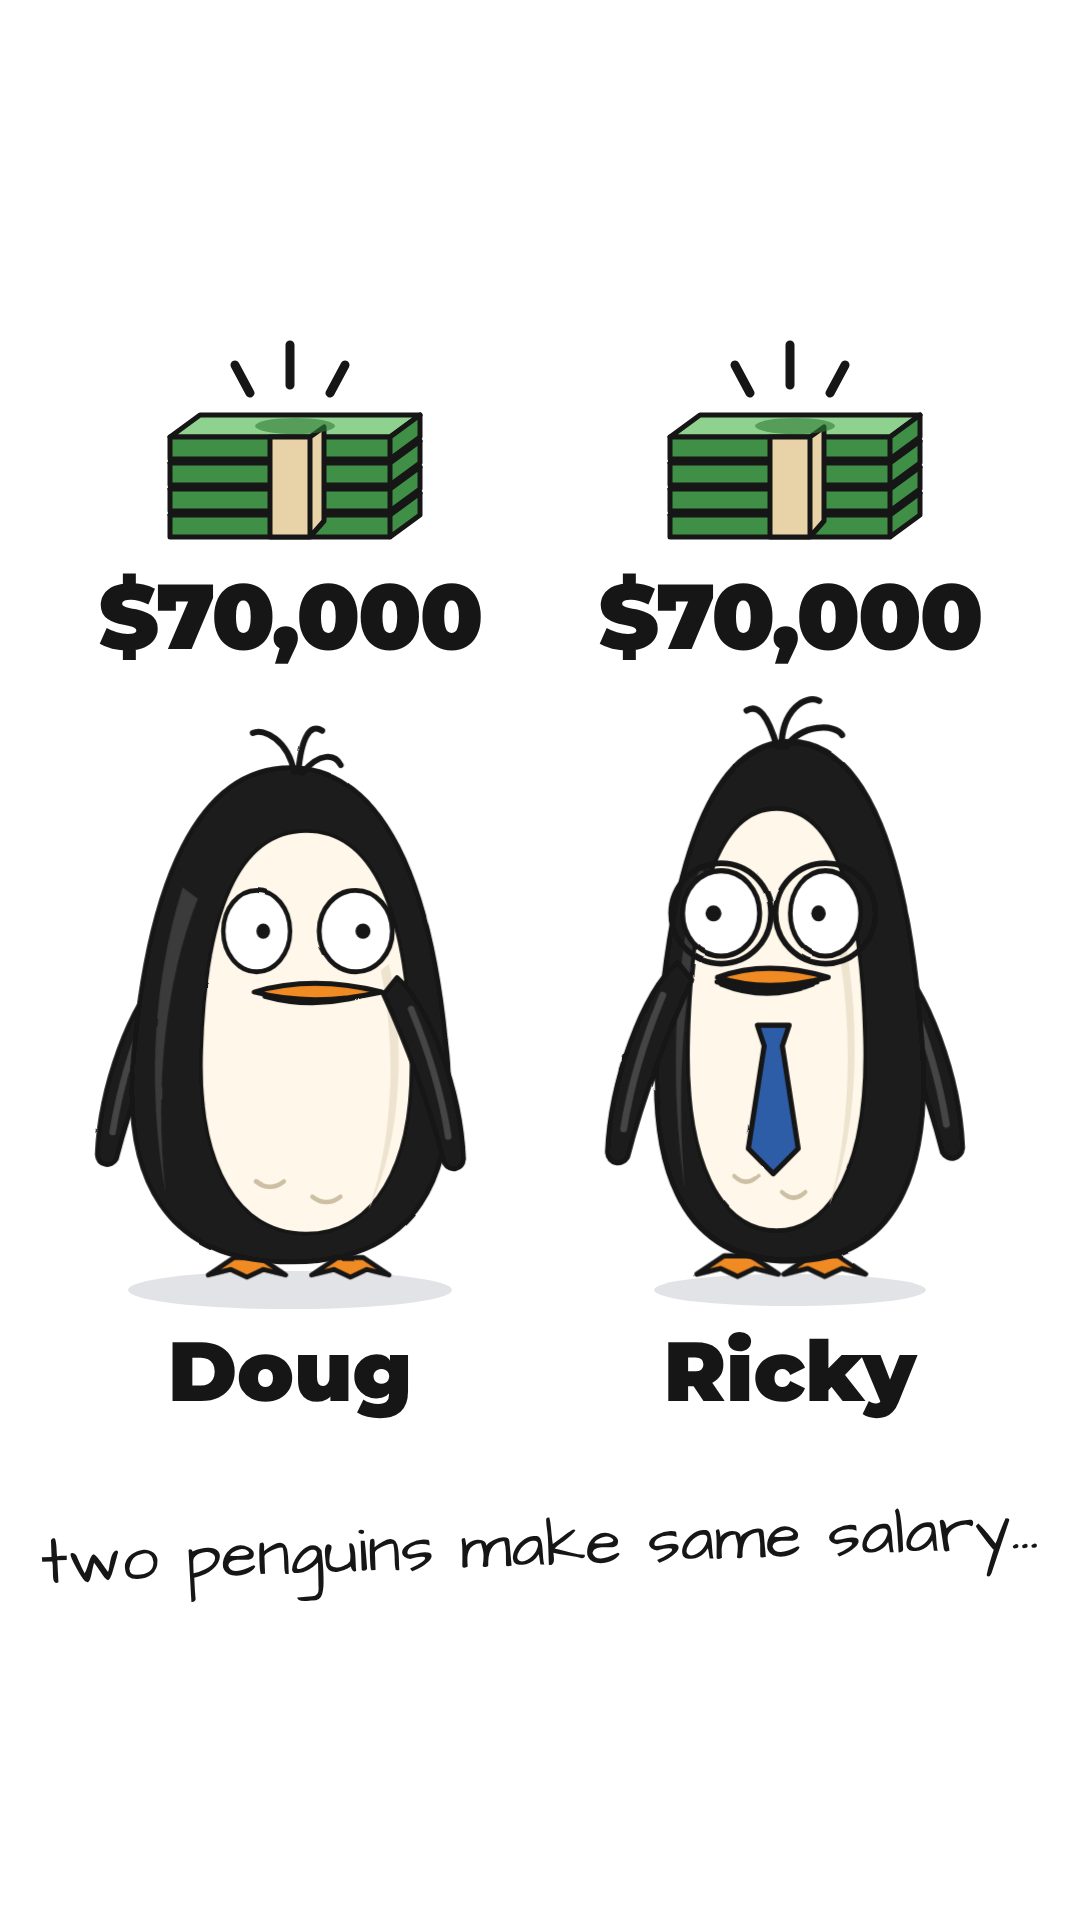
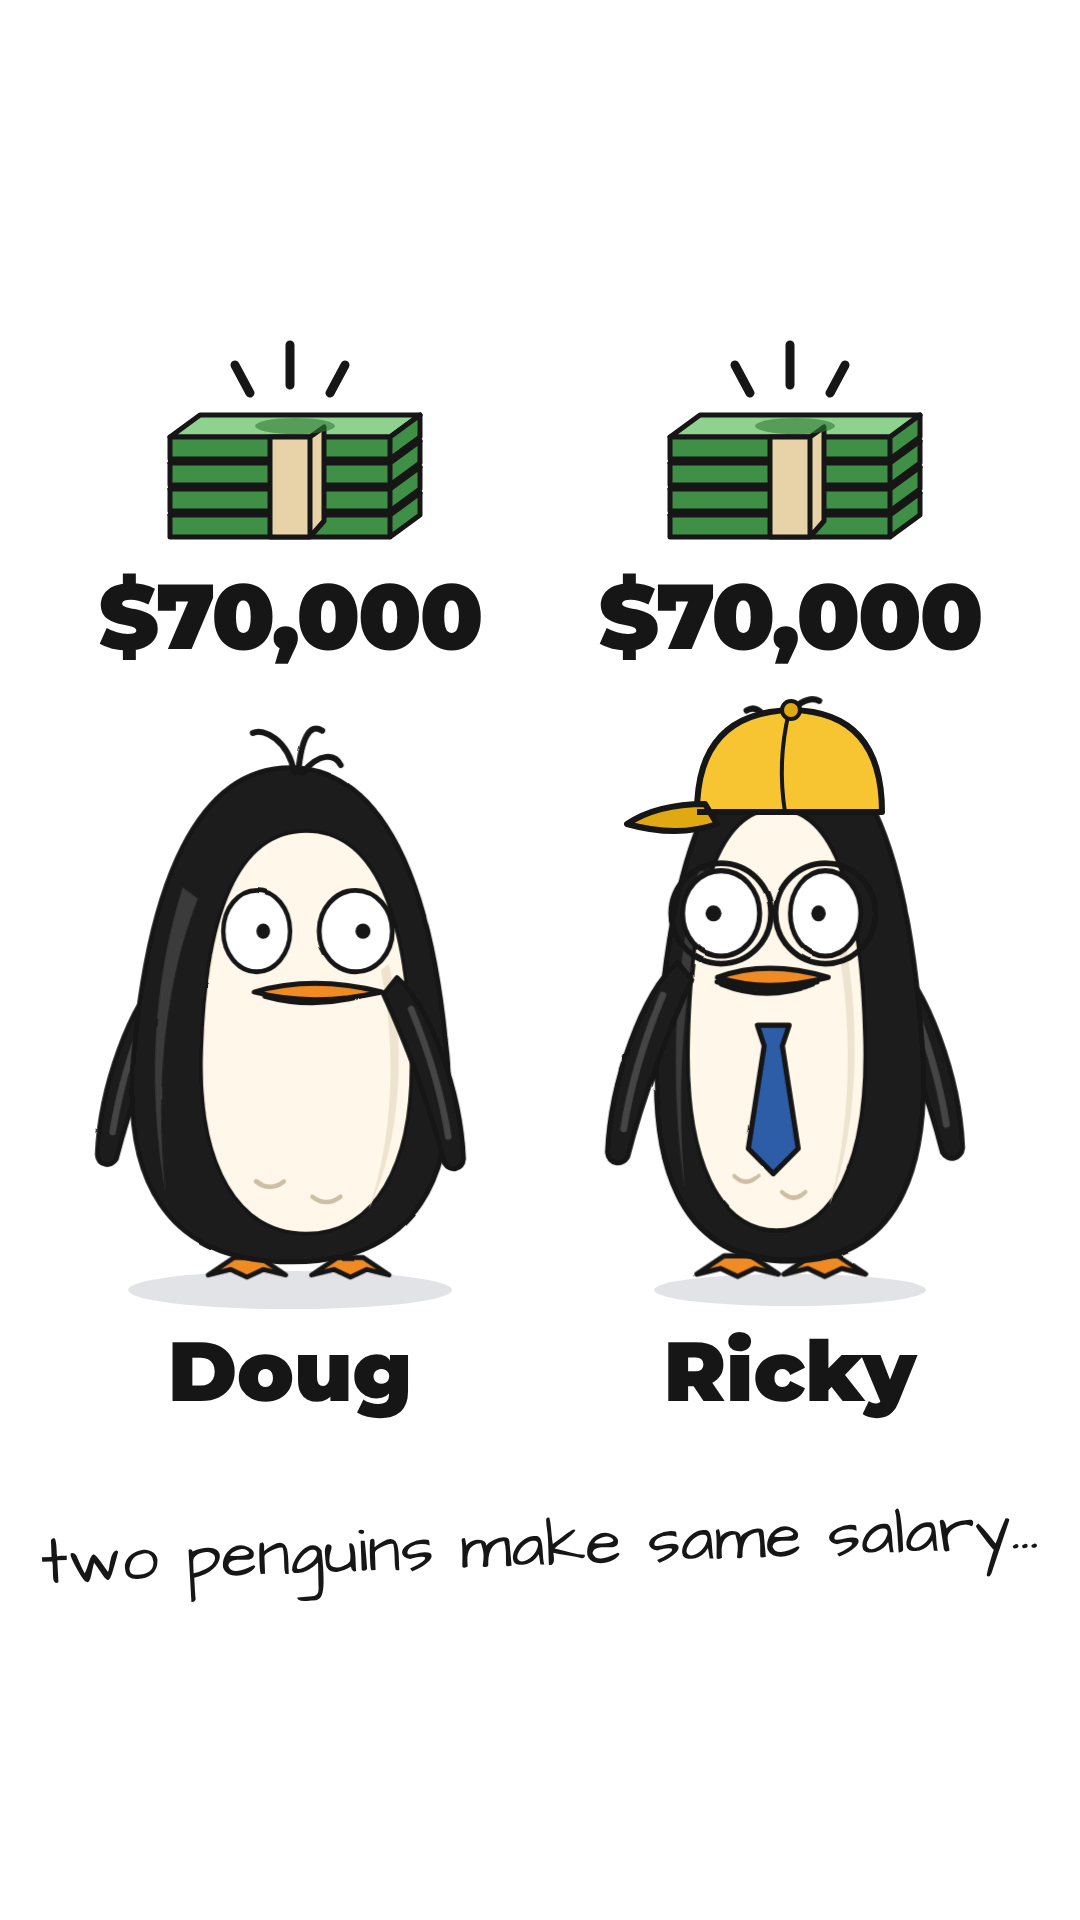
EP4 hook: yellow cap on Ricky
Claude-Session: https://claude.ai/code/session_01BF1T5P5n3PpEcsdLc8ywnx

Changed region(s): [[0.5806, 0.3438, 0.825, 0.4375]]

diff --git a/studio/src/videos/dougSalary.tsx b/studio/src/videos/dougSalary.tsx
@@ -19,6 +19,16 @@ const CashStack = ({x, y, w = 300}: {x: number; y: number; w?: number}) =>
     <ellipse cx={155} cy={101} rx={40} ry={8} fill="#2F7A36" opacity={0.6} />
   </svg>;
 
+// Yellow baseball cap (Ricky's signature), brim to the viewer's left; (x, y) = bottom-centre of the crown.
+const YellowCap = ({x, y, w = 250}: {x: number; y: number; w?: number}) =>
+  <svg width={w} height={w * 0.6} viewBox="0 0 250 150" style={{position: 'absolute', left: x - w / 2, top: y - w * 0.48, overflow: 'visible'}}>
+    <path d="M40 120 Q 40 20 135 18 Q 225 20 225 120 Z" fill="#F7C531" stroke={INK} strokeWidth={6} strokeLinejoin="round" />
+    <path d="M132 20 Q 120 70 128 120" fill="none" stroke={INK} strokeWidth={4} />
+    <path d="M48 112 Q 0 112 -30 132 Q 20 146 60 132 Z" fill="#E0A912" stroke={INK} strokeWidth={6} strokeLinejoin="round" />
+    <path d="M40 120 L225 120" stroke={INK} strokeWidth={6} />
+    <circle cx={134} cy={18} r={9} fill="#E0A912" stroke={INK} strokeWidth={4} />
+  </svg>;
+
 const Salary = ({x, y}: {x: number; y: number}) => <>
   <CashStack x={x} y={y - 110} />
   <div style={{position: 'absolute', left: x - 260, width: 520, top: y - 100, textAlign: 'center', fontFamily: 'Montserrat', fontWeight: 900,
@@ -36,6 +46,7 @@ export const DougSalaryHook = () => {
     <Salary x={R} y={660} />
     <Penguin x={L} y={1290} h={560} id="doug" pose={{turn: 0.35, look: [0.3, 0]}} />
     <Penguin x={R} y={1290} h={590} id="ricky" seed={0.7} build="thin" outfit="banker" pose={{turn: -0.35, look: [-0.3, 0], brows: "up", beak: "smile"}} />
+    <YellowCap x={782} y={812} />
     <Name x={L} y={1320} text="Doug" />
     <Name x={R} y={1320} text="Ricky" />
     <div style={{position: 'absolute', left: 0, right: 0, top: 1500, textAlign: 'center', fontFamily: HAND, fontSize: 66, color: INK, transform: 'rotate(-2deg)'}}>
